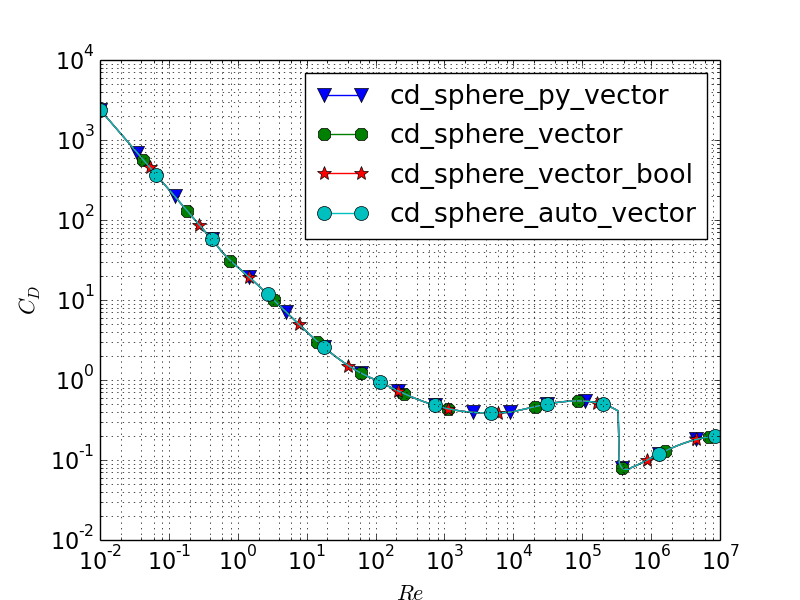
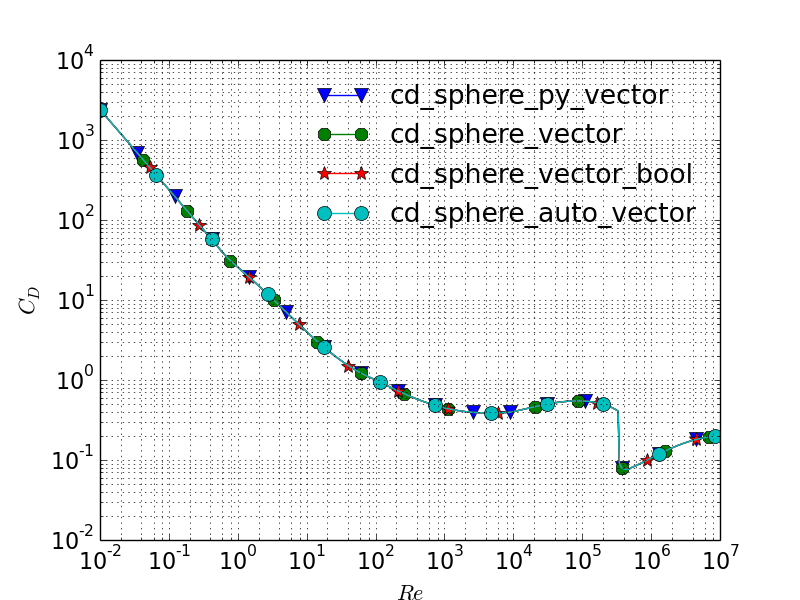
Made transparent plot in CDsphere. Small modification to CDkule.

diff --git a/allfiles/Utviklingsprosjekt/main.html b/allfiles/Utviklingsprosjekt/main.html
@@ -109,7 +109,7 @@ MathJax.Hub.Config({
 <p>
 <!-- institution(s) -->
 <p>
-<center><h4>Nov 20, 2014</h4></center> <!-- date -->
+<center><h4>Dec 2, 2014</h4></center> <!-- date -->
 
 <h2>Table of contents</h2>
 
@@ -305,7 +305,7 @@ pyplot<span style="color: #666666">.</span>xscale(<span style="color: #BA2121">&
 pyplot<span style="color: #666666">.</span>xlabel(<span style="color: #BA2121">&#39;$Re$&#39;</span>)
 pyplot<span style="color: #666666">.</span>ylabel(<span style="color: #BA2121">&#39;$C_D$&#39;</span>)
 pyplot<span style="color: #666666">.</span>grid(<span style="color: #BA2121">&#39;on&#39;</span>, <span style="color: #BA2121">&#39;both&#39;</span>, <span style="color: #BA2121">&#39;both&#39;</span>)
-pyplot<span style="color: #666666">.</span>savefig(<span style="color: #BA2121">&#39;example_sphere.png&#39;</span>)
+pyplot<span style="color: #666666">.</span>savefig(<span style="color: #BA2121">&#39;example_sphere.png&#39;</span>, transparent<span style="color: #666666">=</span><span style="color: #008000">True</span>)
 pyplot<span style="color: #666666">.</span>show()
 
 
@@ -400,7 +400,7 @@ pyplot<span style="color: #666666">.</span>xscale(<span style="color: #BA2121">&
 pyplot<span style="color: #666666">.</span>xlabel(<span style="color: #BA2121">&#39;$Re$&#39;</span>)
 pyplot<span style="color: #666666">.</span>ylabel(<span style="color: #BA2121">&#39;$C_D$&#39;</span>)
 pyplot<span style="color: #666666">.</span>grid(<span style="color: #BA2121">&#39;on&#39;</span>, <span style="color: #BA2121">&#39;both&#39;</span>, <span style="color: #BA2121">&#39;both&#39;</span>)
-pyplot<span style="color: #666666">.</span>savefig(<span style="color: #BA2121">&#39;example_sphere.png&#39;</span>)
+pyplot<span style="color: #666666">.</span>savefig(<span style="color: #BA2121">&#39;example_sphere.png&#39;</span>, transparent<span style="color: #666666">=</span><span style="color: #008000">True</span>)
 pyplot<span style="color: #666666">.</span>show()
 </pre></div>
 <p>

diff --git a/allfiles/Utviklingsprosjekt/eks1.2/DragCoefficientGeneric.py b/allfiles/Utviklingsprosjekt/eks1.2/DragCoefficientGeneric.py
@@ -174,9 +174,10 @@ if __name__ == '__main__':
         hold('on')
         i+=1 
     
-    legend(fncnames)
+    leg = legend(fncnames)
+    leg.get_frame().set_alpha(0.)
     xlabel('$Re$')
     ylabel('$C_D$')
     grid('on','both','both')
-    savefig('example_sphere_generic.png')
+    savefig('example_sphere_generic.png', transparent=True)
     show()

diff --git a/allfiles/Utviklingsprosjekt/eks1.2/CDsphere.py b/allfiles/Utviklingsprosjekt/eks1.2/CDsphere.py
@@ -51,7 +51,7 @@ pyplot.xscale('log')
 pyplot.xlabel('$Re$')
 pyplot.ylabel('$C_D$')
 pyplot.grid('on', 'both', 'both')
-pyplot.savefig('example_sphere.png')
+pyplot.savefig('example_sphere.png', transparent=True)
 pyplot.show()
 
 

diff --git a/allfiles/Utviklingsprosjekt/eks1.2/CDkule.py b/allfiles/Utviklingsprosjekt/eks1.2/CDkule.py
@@ -68,7 +68,7 @@ time2 = linspace(0, T, N+1)
 ze = euler(f2,z0e,time)
 plot(time,ze[:,1])
 legends.append('Euler')
-legend(legends)
+legend(legends, loc='best')
 
 show()
 
